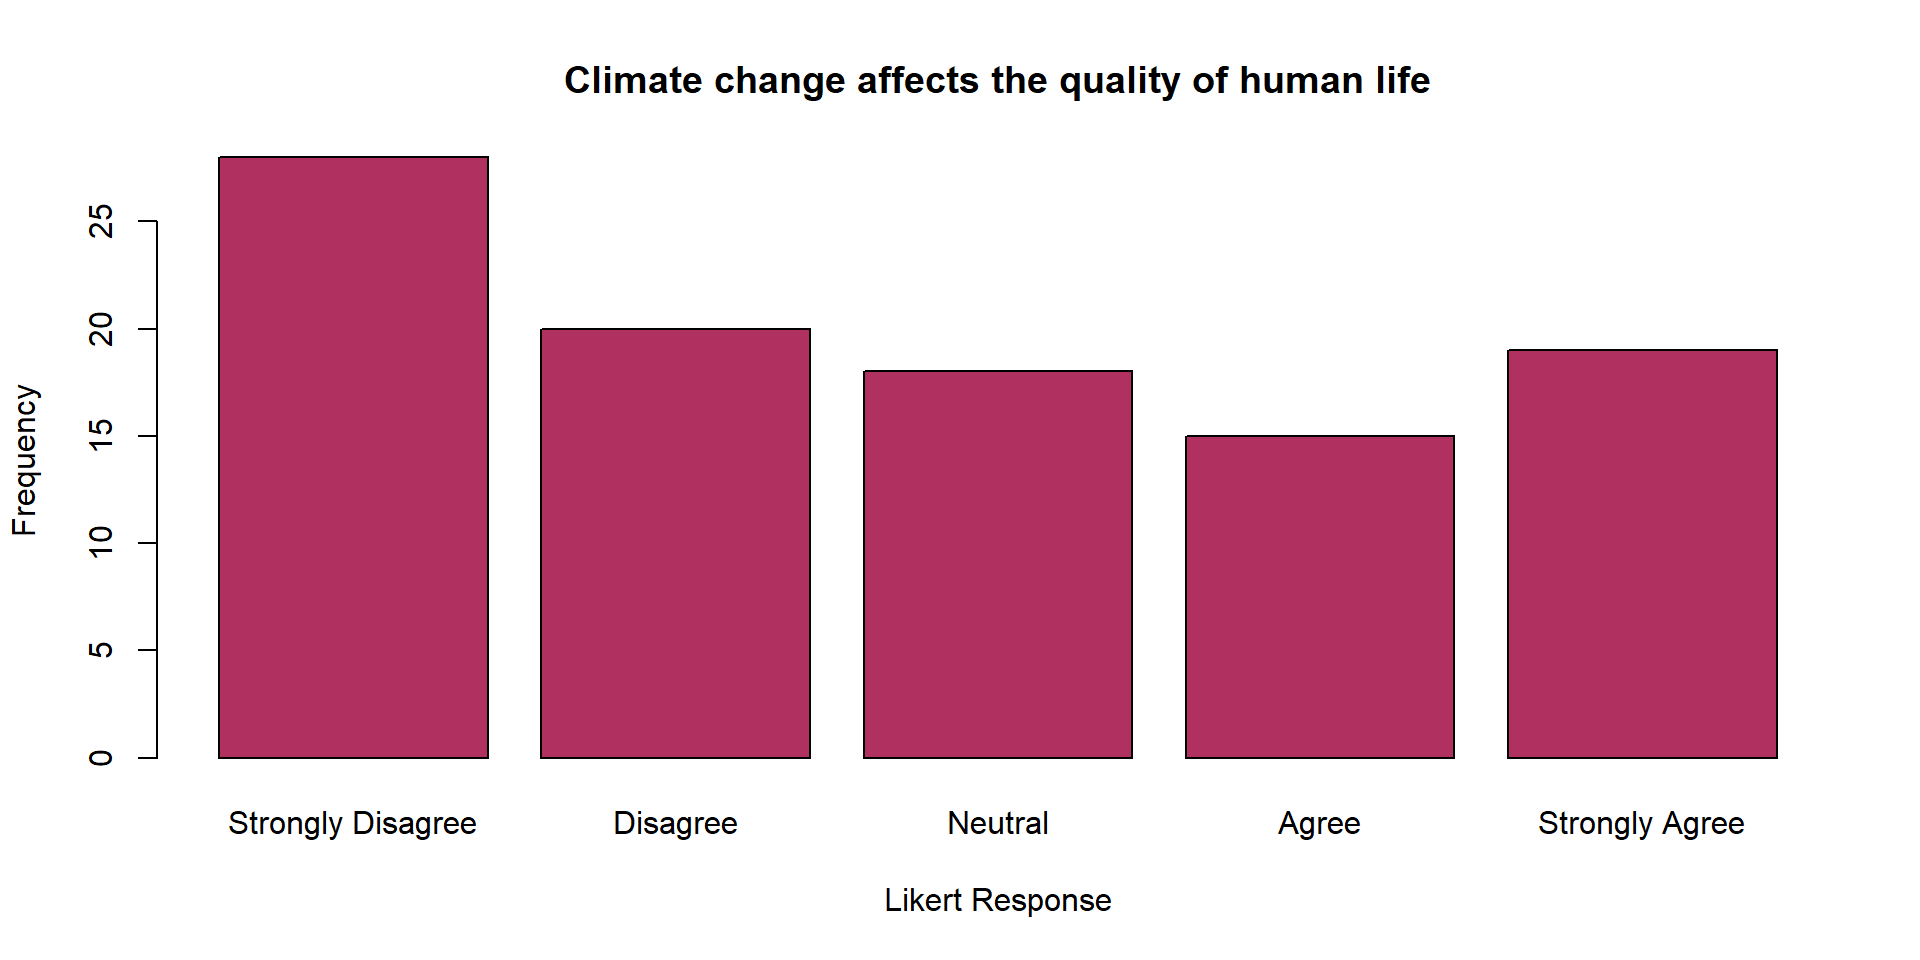
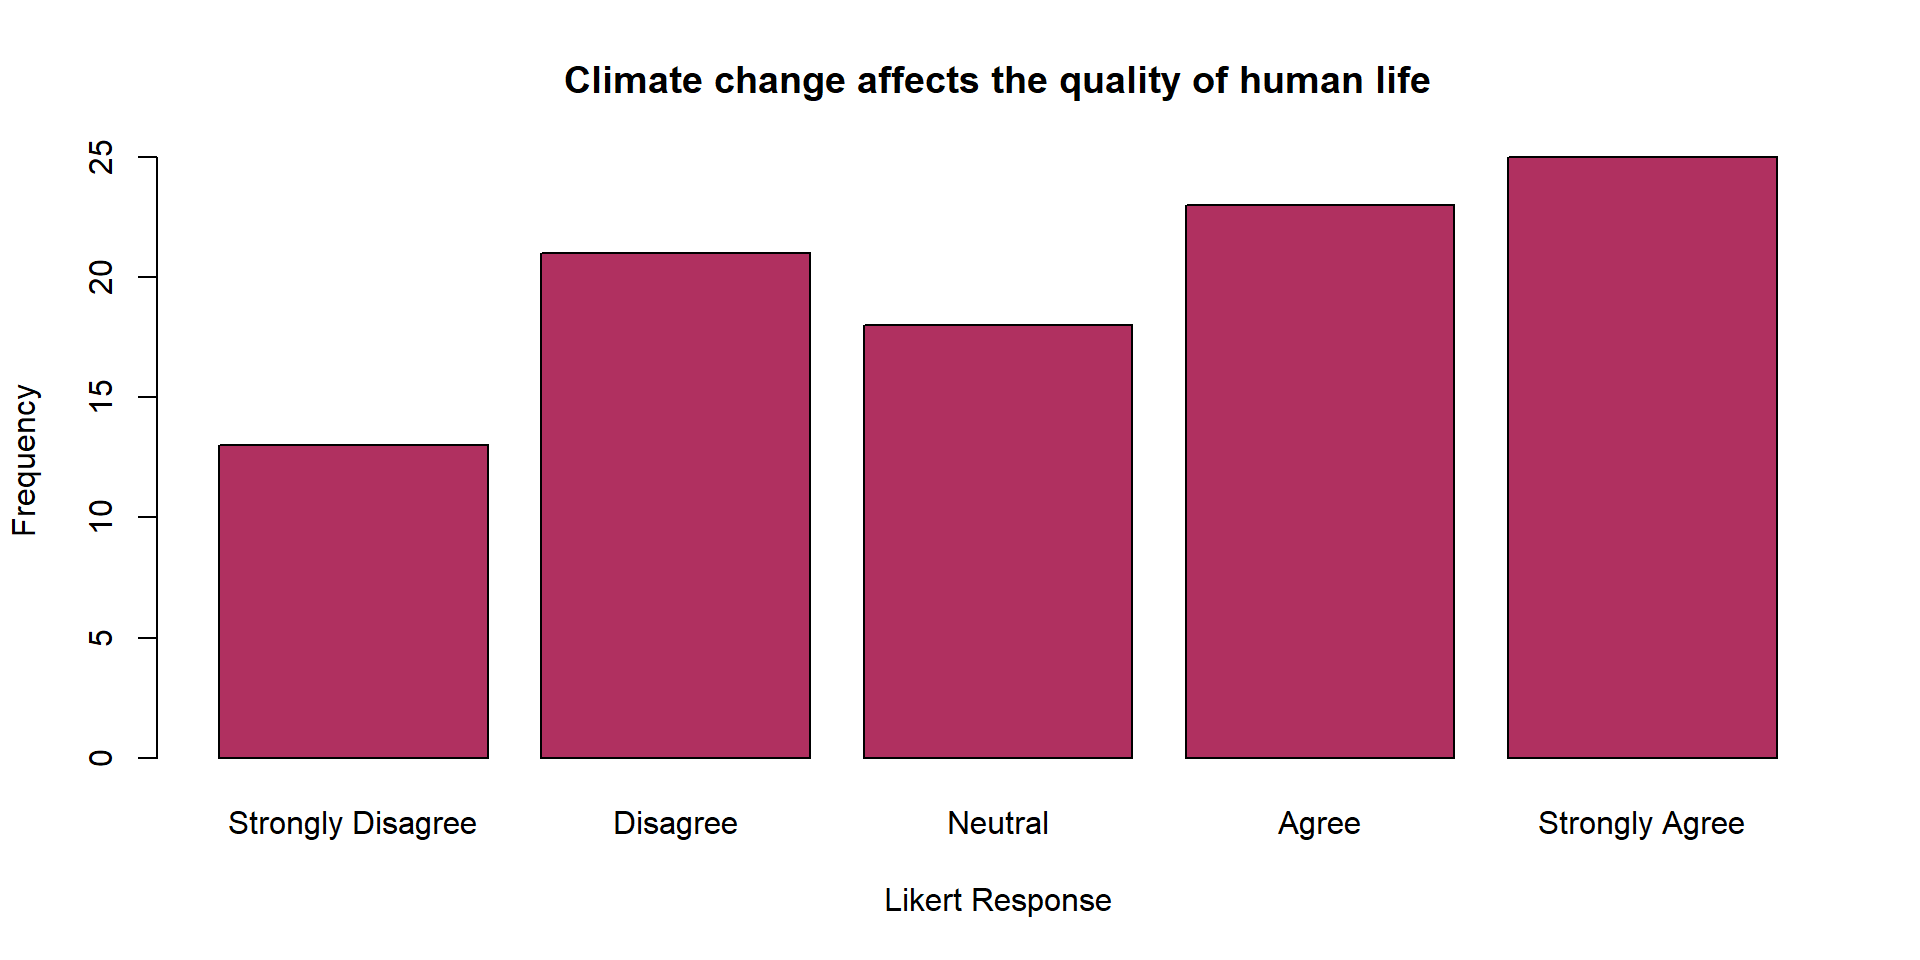
font size

diff --git a/02-Week-02/01-Lecture-01/01-Week-02-Lec-01.html b/02-Week-02/01-Lecture-01/01-Week-02-Lec-01.html
@@ -336,6 +336,7 @@
 </section>
 <section id="todays-menu" class="slide level2">
 <h2>Today’s Menu</h2>
+<div style="font-size: 30px">
 <p>In this lecture, we have</p>
 <ul>
 <li class="fragment">Glossary</li>
@@ -355,6 +356,7 @@
 </ul></li>
 </ul></li>
 </ul>
+</div>
 </section>
 <section id="section" class="slide level2">
 <h2></h2>
@@ -569,11 +571,11 @@
 <tbody>
 <tr class="odd">
 <td style="text-align: left;">Strongly Disagree</td>
-<td style="text-align: right;">28</td>
+<td style="text-align: right;">13</td>
 </tr>
 <tr class="even">
 <td style="text-align: left;">Disagree</td>
-<td style="text-align: right;">20</td>
+<td style="text-align: right;">21</td>
 </tr>
 <tr class="odd">
 <td style="text-align: left;">Neutral</td>
@@ -581,11 +583,11 @@
 </tr>
 <tr class="even">
 <td style="text-align: left;">Agree</td>
-<td style="text-align: right;">15</td>
+<td style="text-align: right;">23</td>
 </tr>
 <tr class="odd">
 <td style="text-align: left;">Strongly Agree</td>
-<td style="text-align: right;">19</td>
+<td style="text-align: right;">25</td>
 </tr>
 <tr class="even">
 <td style="text-align: left;">Total</td>
